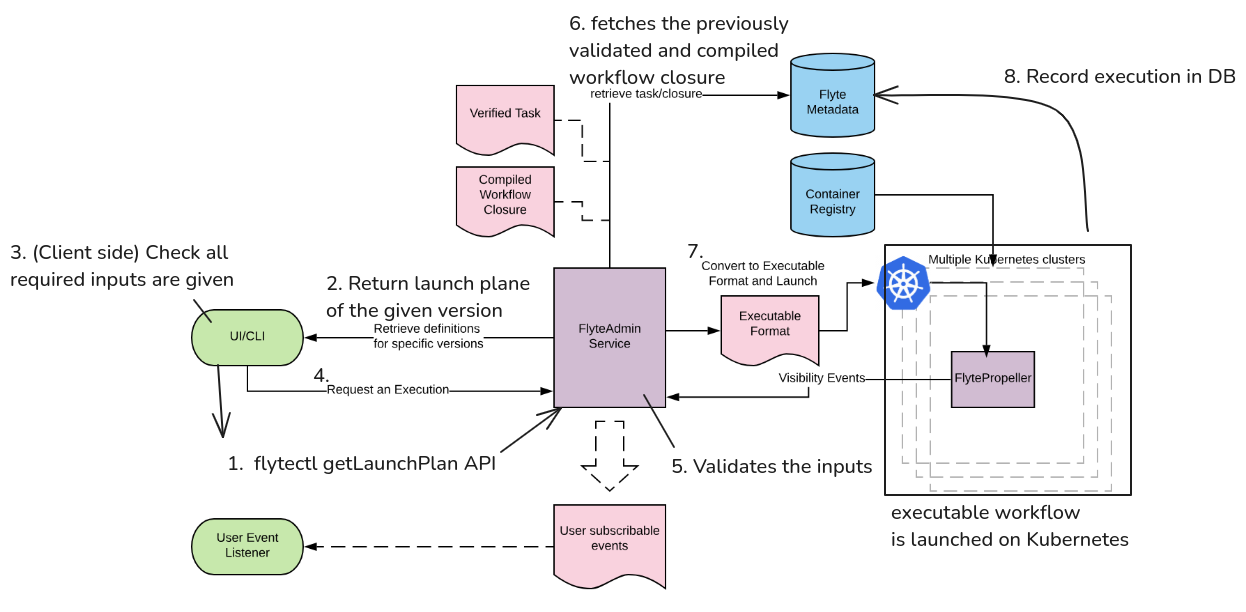
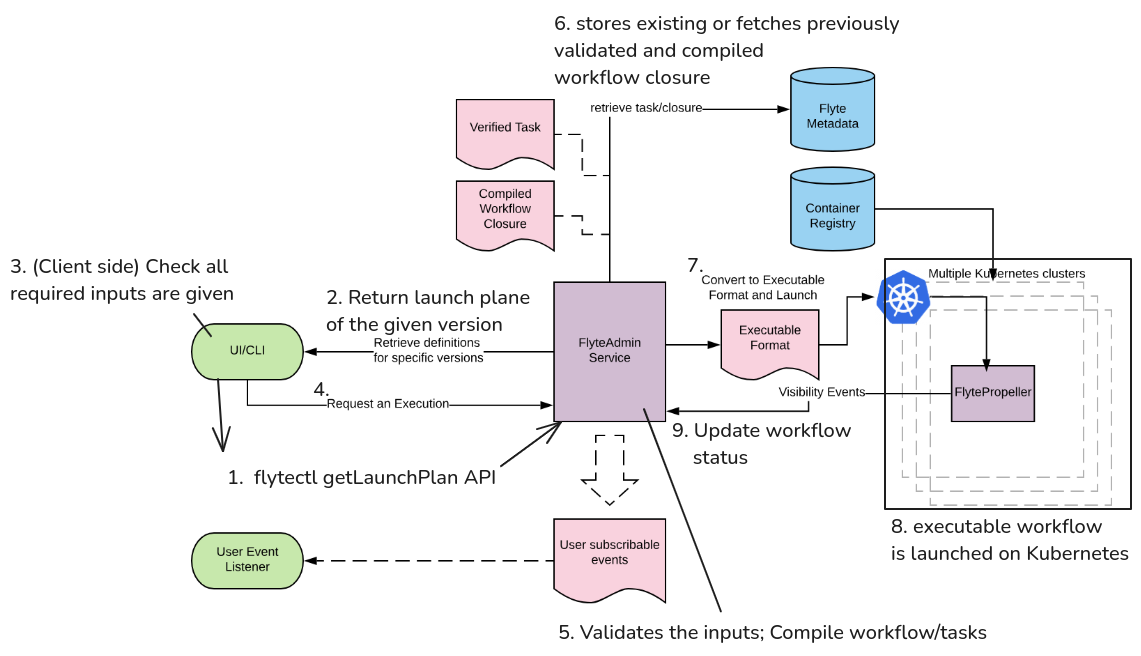
feat: add workflow execution section

Changed region(s): [[0.0, 0.031, 1.0, 0.9935], [0.1534, 0.8072, 0.3374, 0.9624], [0.184, 0.7141, 0.4294, 0.7761]]

diff --git a/content/posts/flyte/flyte-architecture/index.en.md b/content/posts/flyte/flyte-architecture/index.en.md
@@ -12,12 +12,8 @@ series_order: 2
 cascade:
   showSummary: true
   hideFeatureImage: false
-draft: true
+draft: false
 ---
-
-- toc
-    - architecture overview
-    - Data flow when executing the workflow
 
 This article will focus on introducing core components in Flyte, their job, and how they
 interact with each other to form this awesome platform.
@@ -39,7 +35,8 @@ are the brief description of components within each plane.
     - **FlyteCTL**: CLI tool
 - **Control Plane**: Transport the request from user to data plane. Record the workflow
 status and handle scheduling.
-    - **FlyteAdmin**
+    - **FlyteAdmin**: Validate and compile the workflow to executable for FlytePropeller
+    to execute it
 - **Data Plane**: Dispatch workflow into Kubernetes pods for execution. Handle reconcile
 and keep status updated to the control plane.
     - **FlytePropeller**: Kubernetes controller handling task reconciliation and invoking
@@ -48,8 +45,6 @@ and keep status updated to the control plane.
     execution
 
 
-## Workflow Execution
-
 In short, the process of executing the workflow will be:
 1. User submit a workflow through FlyteKit, FlyteConsole, or FlyteCTL.
 2. FlyteAdmin validate the input and compile the workflow, then forward the workflow to
@@ -57,6 +52,53 @@ In short, the process of executing the workflow will be:
 3. FlytePropeller choose a proper FlytePlugin to execute the workflow, then keep tracking
    and reconciling to ensure the workflow finish successfully
 
-Below we will dive in a bit more of what's happening when executing a workflow
+
+## Workflow Execution
+
+Below we will dive in a bit more of what each component do when executing a workflow
+
+
+{{< alert "circle-info">}}
+Flyte workflow have 3 main components: launch plane, workflow, and task.
+- **launch plan**: Templates to define input for the workflow
+- **workflow**: Grouping tasks to form a whole pipeline
+- **task**: A step or a unit of computation (e.g. function that do data transform, model
+training, etc.)
+
+These are the brief description for those components, and we will have more articles
+depicting more details on them and their variations.
+{{< /alert >}}
 
 ![register-execute-workflow](img/register-execute-workflow.png "Register and Execute Workflow")
+
+1. Client (User Plane) send request `getLaunchPlan` to get the launch plan from FlyteAdmin
+    - If user does not set the launch plan explicitly, the default lauch plan will be
+    created, which is as same name as the workflow
+2. `FlyteAdmin` return the requested launch plan
+3. Client validate if all inputs are provided based on the launch plan returned by
+   `FlyteAdmin`
+4. Workflow execution request is sent to `FlyteAdmin` from the client
+5. `FlyteAdmin` validates the input and compile workflow and tasks
+6. Upload the compiled task and workflow to Flyte metadata storage. If the workflow is
+   compiled before, fetch from the metadata storage.
+7. Translate compiled workflow to an executable format with inputs. The executable format
+   here is the `flyteworkflow` CR(custom resource)
+    - CR is the custom resources that can be
+run on k8s with customized behaviour.
+8. `FlytePropeller` get the `flyteworkflow` CR and try to execute it by invoking `FlytePlugin`,
+   and keep tracking to ensure the workflow success
+9. During the workflow execution, `FlytePropeller` will keep `FlyteAdmin` updated about the
+   status for workflows
+
+This is the brief steps heppens when executing a workflow, and how each component working
+together.
+
+
+## Summary
+
+Executing workflow in Flyte requires the coordination between client, `FlyteAdmin`, and
+`FlytePropeller`. To summarize:
+
+- Client (`FlyteKit`, `FlyteConsole`, `FlyteCLI`): SDK/Tools for user manipulate Flyte
+- `FlyteAdmin`: Entry point for workflow execution.
+- `FlytePropeller`: Handle actual workflow execution
